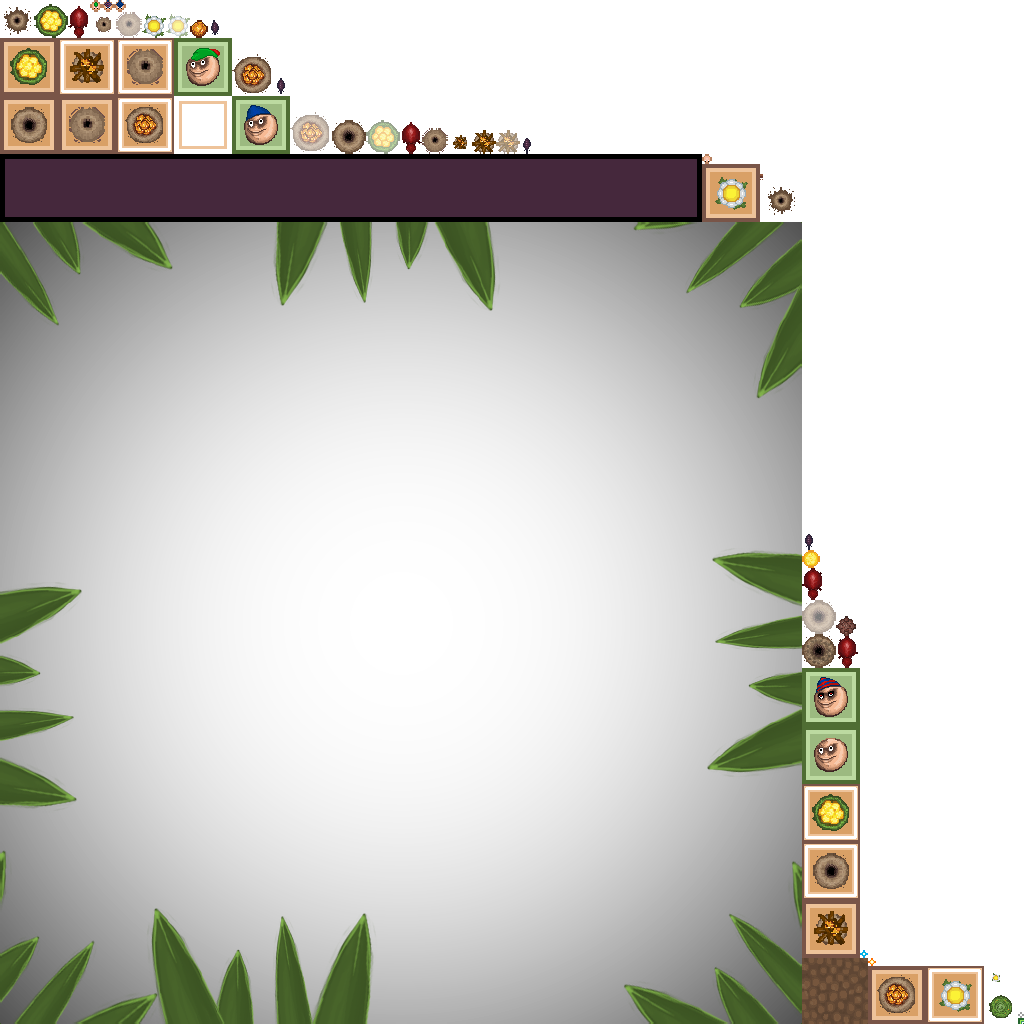
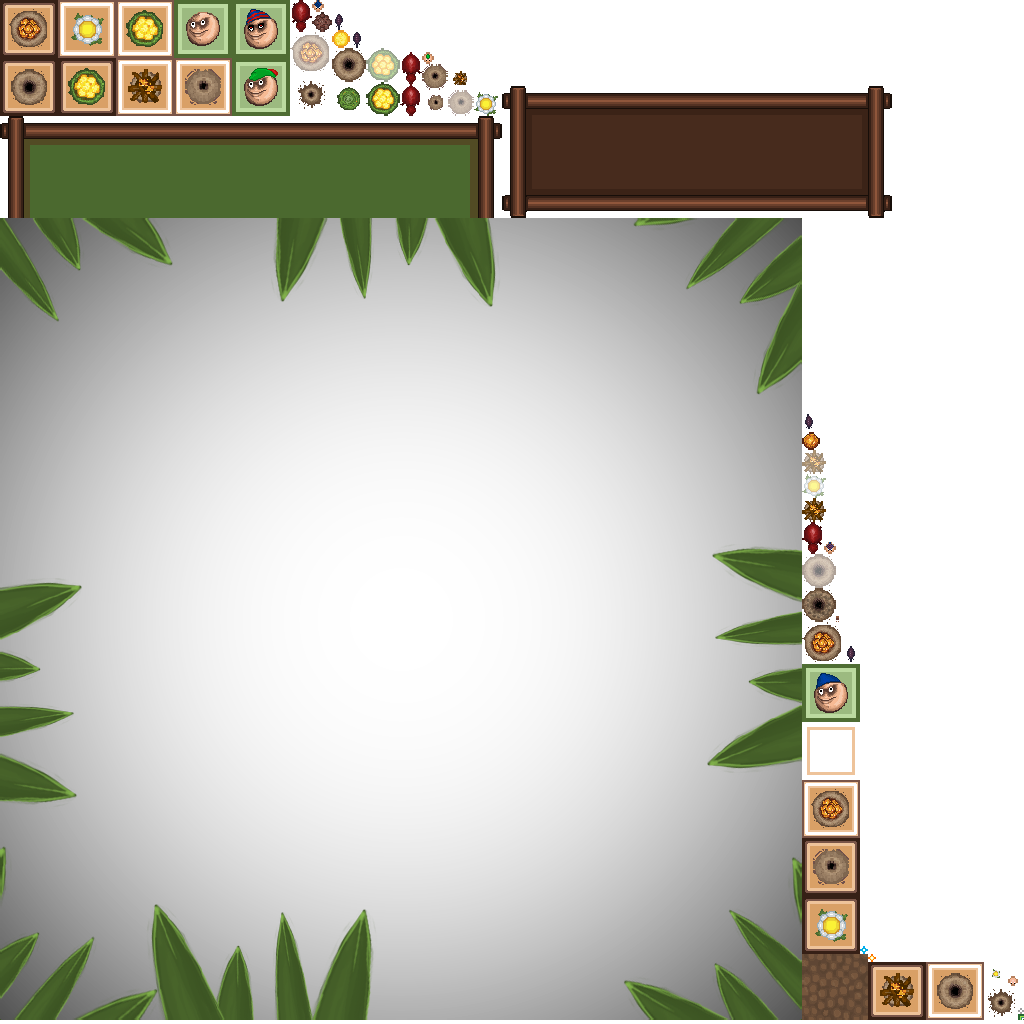
Added messages

diff --git a/LudumDare38/core/src/com/gurbx/ld38/message/MessageHandler.java b/LudumDare38/core/src/com/gurbx/ld38/message/MessageHandler.java
@@ -1,0 +1,68 @@
+package com.gurbx.ld38.message;
+
+import java.util.ArrayList;
+
+import com.badlogic.gdx.graphics.Color;
+import com.badlogic.gdx.graphics.Texture;
+import com.badlogic.gdx.graphics.g2d.Sprite;
+import com.badlogic.gdx.graphics.g2d.SpriteBatch;
+import com.badlogic.gdx.graphics.g2d.TextureAtlas;
+import com.badlogic.gdx.graphics.g2d.TextureRegion;
+import com.gurbx.ld38.Application;
+import com.gurbx.ld38.utils.GameInterface;
+
+public class MessageHandler implements GameInterface {
+	private Application app;
+	private ArrayList<Message> messages;
+	private TextureRegion messageTex;
+	
+	private String[] messageStrings;
+	
+	public MessageHandler(Application app, TextureAtlas atlas) {
+		this.app = app;
+		messages = new ArrayList<Message>();
+		messageTex = new TextureRegion(atlas.findRegion("messageBox"));
+		messageStrings = new String[6];
+		messageStrings[0] = "Defend your world from the evil bugs!";
+		messageStrings[1] = "Some buildings produce resin \n   and some produce pollen.";
+		messageStrings[2] = "You can spend your resin on new buildings.";
+		messageStrings[3] = "The pollen you can use to train new warriors.";
+		messageStrings[4] = "Train new warriors by selecting the round building\n              			     in the middle of the town.";
+		messageStrings[5] = "Click the right mouse button to get back \n         to the buildings menu again";
+		
+		
+		//Init messages
+//		messages.add(new Message(2f, 6, messageStrings[0], messageTex.getRegionHeight(), messageTex.getRegionWidth(), 32));
+//		messages.add(new Message(0.4f, 6, messageStrings[1], messageTex.getRegionHeight(), messageTex.getRegionWidth(), 64));
+//		messages.add(new Message(0.4f, 6, messageStrings[2], messageTex.getRegionHeight(), messageTex.getRegionWidth(), 22));
+//		messages.add(new Message(0.4f, 6, messageStrings[3], messageTex.getRegionHeight(), messageTex.getRegionWidth(), 14));
+//		messages.add(new Message(0.4f, 6, messageStrings[4], messageTex.getRegionHeight(), messageTex.getRegionWidth(), 0));
+		messages.add(new Message(0.4f, 6, messageStrings[5], messageTex.getRegionHeight(), messageTex.getRegionWidth(), 32));
+	}
+
+	@Override
+	public void update(float delta) {
+		if (messages.isEmpty() == false) {
+			messages.get(0).update(delta);
+			if (messages.get(0).shouldRemove()) {
+				messages.remove(0);
+			}
+		}
+		
+	}
+
+	@Override
+	public void render(SpriteBatch batch) {
+		app.font.setColor(Color.WHITE);
+		if (messages.isEmpty() == false) {
+			messages.get(0).render(batch, app.font, messageTex);
+		}
+		
+	}
+
+	@Override
+	public void dispse() {
+		
+	}
+
+}

diff --git a/LudumDare38/core/src/com/gurbx/ld38/screens/MenuScreen.java b/LudumDare38/core/src/com/gurbx/ld38/screens/MenuScreen.java
@@ -20,6 +20,8 @@ import com.gurbx.ld38.utils.Constants;
 public class MenuScreen extends GameScreen {
 	private TextureAtlas atlas;
 	private TextureRegion bgTile;
+	private TextureRegion logo;
+	private TextureRegion screenTex;
 	private Stage stage;
 	private Sound select;
 
@@ -34,6 +36,8 @@ public class MenuScreen extends GameScreen {
 		stage = new Stage(app.uiViewport);
 		atlas = app.assets.get("img/menuPack.atlas", TextureAtlas.class);
 		bgTile = atlas.findRegion("bgTile");
+		logo = atlas.findRegion("logo");
+		screenTex = atlas.findRegion("mainMenu");
 		initButtons();
 		select = app.assets.get("sound/select1.wav", Sound.class);
 		Gdx.input.setInputProcessor(stage);
@@ -47,7 +51,7 @@ public class MenuScreen extends GameScreen {
         style.down = skin.getDrawable("menuButtonPressed");
         
         playButton = new TextButton("PLAY", style);
-        playButton.setPosition(Constants.UI_VIRTUAL_WIDTH/2-184, Constants.UI_VIRTUAL_HEIGHT/2 - 36 - 100);
+        playButton.setPosition(Constants.UI_VIRTUAL_WIDTH/2-184, Constants.UI_VIRTUAL_HEIGHT/2 - 36 - 150);
         playButton.addListener( new ClickListener() {
             @Override
             public void clicked(InputEvent event, float x, float y) {
@@ -55,12 +59,6 @@ public class MenuScreen extends GameScreen {
             	app.setScreen(app.loadingScreen);
             	select.play();
             };
-            @Override
-            public boolean touchDown(InputEvent event, float x, float y, int pointer, int button) {
-            	select.play();
-            	return super.touchDown(event, x, y, pointer, button);
-            	
-            }
         });
         
         stage.addActor(playButton);
@@ -79,12 +77,14 @@ public class MenuScreen extends GameScreen {
 		Gdx.gl.glClear(GL20.GL_COLOR_BUFFER_BIT);
 		
 		app.batch.begin();
-		for (int i = 0; i < 13; i++) {
-			for (int j = 0; j < 13; j++) {
-				app.batch.draw(bgTile, 0 + 64 * i, 0 + 64 * j);
-			}
-			
-		}
+		app.batch.draw(screenTex, 0, 0);
+//		for (int i = 0; i < 13; i++) {
+//			for (int j = 0; j < 13; j++) {
+//				app.batch.draw(bgTile, 0 + 64 * i, 0 + 64 * j);
+//			}
+//			
+//		}
+//		app.batch.draw(logo, Constants.UI_VIRTUAL_WIDTH/2-logo.getRegionWidth()/2, Constants.UI_VIRTUAL_HEIGHT/2 - logo.getRegionHeight()/2 + 120);
 		app.batch.end();
 		
 		stage.draw();

diff --git a/LudumDare38/core/src/com/gurbx/ld38/message/Message.java b/LudumDare38/core/src/com/gurbx/ld38/message/Message.java
@@ -1,0 +1,70 @@
+package com.gurbx.ld38.message;
+
+import com.badlogic.gdx.graphics.g2d.BitmapFont;
+import com.badlogic.gdx.graphics.g2d.Sprite;
+import com.badlogic.gdx.graphics.g2d.SpriteBatch;
+import com.badlogic.gdx.graphics.g2d.TextureRegion;
+import com.gurbx.ld38.utils.Constants;
+
+public class Message {
+	private String message;
+	private float spawnX, spawnY;
+	private float targetX, targetY = Constants.UI_VIRTUAL_HEIGHT-80;
+	private float x, y;
+	private float speed = 240;
+	private float timer, timeDisplayed;
+	private boolean waiting;
+	private boolean display;
+	private boolean displayed;
+	private boolean canRemove;
+	private float height;
+	private float width;
+	private float modifer;
+	
+	public Message(float timer, float timeDisplayer, String message, float height, float width, float modifer) {
+		this.modifer = modifer;
+		this.message = message;
+		this.timer = timer;
+		this.timeDisplayed = timeDisplayer;
+		waiting = true;
+		displayed =false;
+		display = false;
+		y = Constants.UI_VIRTUAL_HEIGHT + height;
+		x = Constants.UI_VIRTUAL_WIDTH/2 - width/2;
+		this.width = width;
+		this.height = height;
+	}
+
+	public void update(float delta) {
+		timer -= delta;
+		if (timer <= 0) {
+			display = true;
+			timeDisplayed -= delta;
+			if (timeDisplayed <= 0) {
+				displayed = true;
+				if (y > Constants.UI_VIRTUAL_HEIGHT + height) {
+					canRemove = true;
+				}
+			}
+		}
+		if (display && displayed == false) {
+			y -= speed * delta;
+			if (y < targetY) y = targetY;
+		}
+		if (displayed) {
+			y += speed * delta;
+		}
+	}
+
+	public void render(SpriteBatch batch, BitmapFont font, TextureRegion texture) {
+		batch.draw(texture, x, y - height * 0.5f);
+		font.draw(batch, message, x + 40 + modifer, y + 14);
+		
+	}
+	
+	public boolean shouldRemove(){
+		return canRemove;
+	}
+
+
+}

diff --git a/LudumDare38/core/src/com/gurbx/ld38/screens/PlayScreen.java b/LudumDare38/core/src/com/gurbx/ld38/screens/PlayScreen.java
@@ -9,6 +9,7 @@ import com.badlogic.gdx.math.Vector2;
 import com.gurbx.ld38.Application;
 import com.gurbx.ld38.house.HouseHandler;
 import com.gurbx.ld38.input.Input;
+import com.gurbx.ld38.message.MessageHandler;
 import com.gurbx.ld38.mobs.MobHandler;
 import com.gurbx.ld38.resources.Resources;
 import com.gurbx.ld38.screens.LoadingScreen.LoadNext;
@@ -33,6 +34,7 @@ public class PlayScreen extends GameScreen {
 	private TextureRegion bgTile;
 	private TextureRegion bg;
 	private SoundHandler sound;
+	private MessageHandler messageHandler;
 	
 	private WaveHandler waves;
 
@@ -59,6 +61,7 @@ public class PlayScreen extends GameScreen {
 		bg = villageAtlas.findRegion("background");
 		particleHandler = new ParticleEffectHandler(villageAtlas);
 		sound = new SoundHandler(app);
+		messageHandler = new MessageHandler(app, villageAtlas);
 		
 		InputMultiplexer multiPlex = new InputMultiplexer();
 		multiPlex.addProcessor(ui.getStage());
@@ -80,6 +83,7 @@ public class PlayScreen extends GameScreen {
 			app.loadingScreen.setLoad(LoadNext.GAMEOVER);
 			app.setScreen(app.loadingScreen);
 		}
+		messageHandler.update(delta);
 	}
 
 	@Override
@@ -116,6 +120,7 @@ public class PlayScreen extends GameScreen {
 		
 		app.batch.begin();
 		ui.renderOverStage(app.batch);
+		messageHandler.render(app.batch);
 		app.batch.end();
 		
 	}
@@ -154,6 +159,7 @@ public class PlayScreen extends GameScreen {
 		waves.dispse();
 		particleHandler.dispse();
 		sound.dispse();
+		messageHandler.dispse();
 		
 	}
 

diff --git a/LudumDare38/core/src/com/gurbx/ld38/mobs/MobHandler.java b/LudumDare38/core/src/com/gurbx/ld38/mobs/MobHandler.java
@@ -31,11 +31,14 @@ public class MobHandler implements GameInterface {
 		mobs = new ArrayList<Mob>();
 		
 		//Starting mobs
-		mobs.add(new Mob(new Vector2(380, 410), MobType.SOLIDER, atlas));
-		mobs.add(new Mob(new Vector2(400, 400), MobType.SOLIDER, atlas));
-		mobs.add(new Mob(new Vector2(420, 390), MobType.SOLIDER, atlas));
-		mobs.add(new Mob(new Vector2(400, 420), MobType.ARCHER, atlas));
-		mobs.add(new Mob(new Vector2(380, 420), MobType.ARCHER, atlas));
+		float x = 400;
+		float y = 350;
+		float md = 15f;
+		mobs.add(new Mob(new Vector2(x + md, y), MobType.SOLIDER, atlas));
+		mobs.add(new Mob(new Vector2(x - md, y), MobType.SOLIDER, atlas));
+		mobs.add(new Mob(new Vector2(x - md, y + md), MobType.SOLIDER, atlas));
+		mobs.add(new Mob(new Vector2(x+ md, y -md), MobType.ARCHER, atlas));
+		mobs.add(new Mob(new Vector2(x, y), MobType.ARCHER, atlas));
 		
 		selectedMobs = new ArrayList<Mob>();
 		random = new Random();

diff --git a/LudumDare38/core/src/com/gurbx/ld38/ui/Bar.java b/LudumDare38/core/src/com/gurbx/ld38/ui/Bar.java
@@ -15,7 +15,7 @@ public class Bar implements GameInterface {
 	public Bar(TextureAtlas atlas) {
 		barTex = new TextureRegion(atlas.findRegion("uiBar"));
 		bar = new Sprite(barTex);
-		bar.setPosition(Constants.UI_VIRTUAL_WIDTH/2 - barTex.getRegionWidth()/2, 5);
+		bar.setPosition(Constants.UI_VIRTUAL_WIDTH/2 - barTex.getRegionWidth()/2, 0);
 		active = true;
 	}
 

diff --git a/LudumDare38/core/src/com/gurbx/ld38/ui/HouseMenu.java b/LudumDare38/core/src/com/gurbx/ld38/ui/HouseMenu.java
@@ -23,8 +23,8 @@ public class HouseMenu {
 	private String pollenStorageDesc;
 	private String mobHouseDescription;
 	private int hover;
-	private float x = 55;
-	private float y = 95;
+	private float x = 170;
+	private float y = 135;
 	
 	
 	private TextureAtlas atlas;

diff --git a/LudumDare38/core/src/com/gurbx/ld38/ui/BarrackMenu.java b/LudumDare38/core/src/com/gurbx/ld38/ui/BarrackMenu.java
@@ -25,8 +25,8 @@ public class BarrackMenu {
 	private String wizzardDescription;
 	private String warlockDesc;
 	private int hover;
-	private float x = 55;
-	private float y = 95;
+	private float x = 170;
+	private float y = 135;
 	
 	
 	private float buttonX = 56; 
